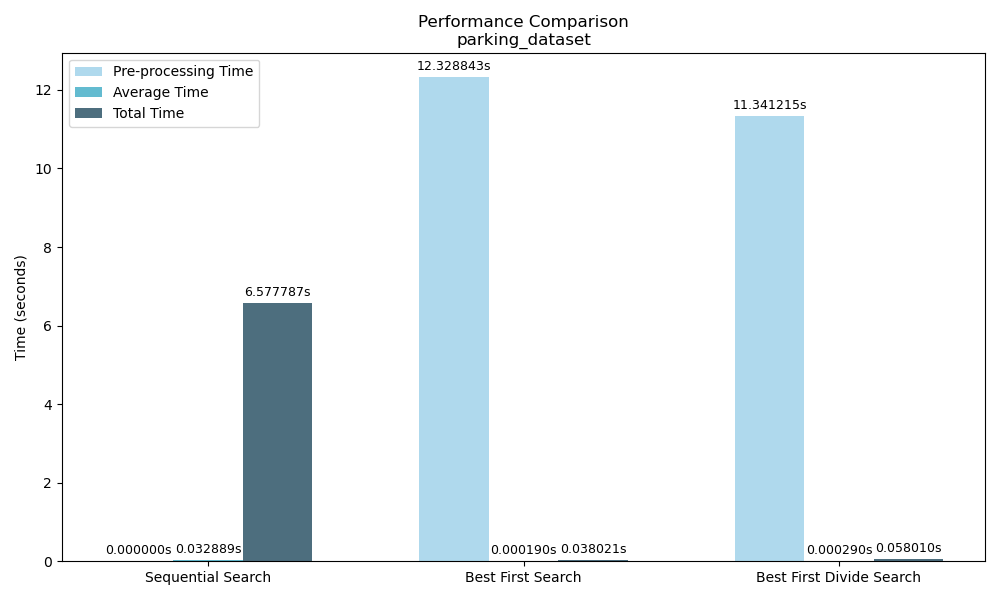
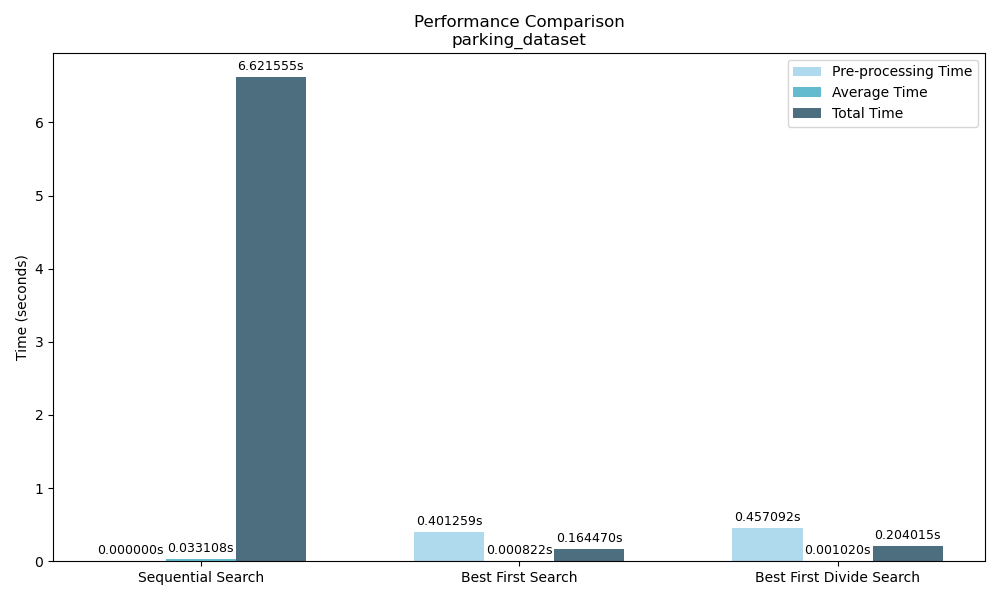
Update performance metrics and switch to bulk loading for RTree

diff --git a/task1_main.py b/task1_main.py
@@ -45,16 +45,19 @@ def main() -> None:
     #construct the RTree
     start_time = time.time()
     rtree = RTree(max_entries=MAX_ENTRIES)
-    rtree.fit(data_points)
+    #rtree.fit(data_points)
+    rtree.bulk_load(data_points)
     end_time = time.time()
     pre_processing_time = end_time - start_time
     # construct the RTree for the divided data
     start_time = time.time()
     data1, data2 = divide_data(data_points)
     rtree1 = RTree(max_entries=MAX_ENTRIES)
-    rtree1.fit(data1)
+    #rtree1.fit(data1)
+    rtree1.bulk_load(data1)
     rtree2 = RTree(max_entries=MAX_ENTRIES)
-    rtree2.fit(data2)
+    #rtree2.fit(data2)
+    rtree2.bulk_load(data2)
     end_time = time.time()
     pre_processing_time_divide = end_time - start_time
     all_results = {}

diff --git a/task1_divide_best_first_search.py b/task1_divide_best_first_search.py
@@ -53,10 +53,12 @@ def main():
     data_points1, data_points2 = divide_data(data_points)
     #create an R-Tree for nearest neighbor search
     rtree1 = RTree(max_entries=MAX_ENTRIES)
-    rtree1.fit(data_points1)
+    #rtree1.fit(data_points1)
+    rtree1.bulk_load(data_points1)
     # create an R-Tree for nearest neighbor search
     rtree2 = RTree(max_entries=MAX_ENTRIES)
-    rtree2.fit(data_points2)
+    #rtree2.fit(data_points2)
+    rtree2.bulk_load(data_points2)
     results, average_time, total_time = best_first_divide_search(rtree1, rtree2, query_points)
     # Write results to file
     # Use the dataset name for the summary header rather than the results file

diff --git a/task1_best_first_search.py b/task1_best_first_search.py
@@ -38,7 +38,9 @@ def main():
     
     #create an R-Tree for nearest neighbor search
     rtree = RTree(max_entries=MAX_ENTRIES)
-    rtree.fit(data_points)
+    #rtree.fit(data_points)
+    #experiment with bulk loading
+    rtree.bulk_load(data_points)
     
     # Perform best-first search
     results, average_time, total_time = best_first_search(rtree, query_points)
